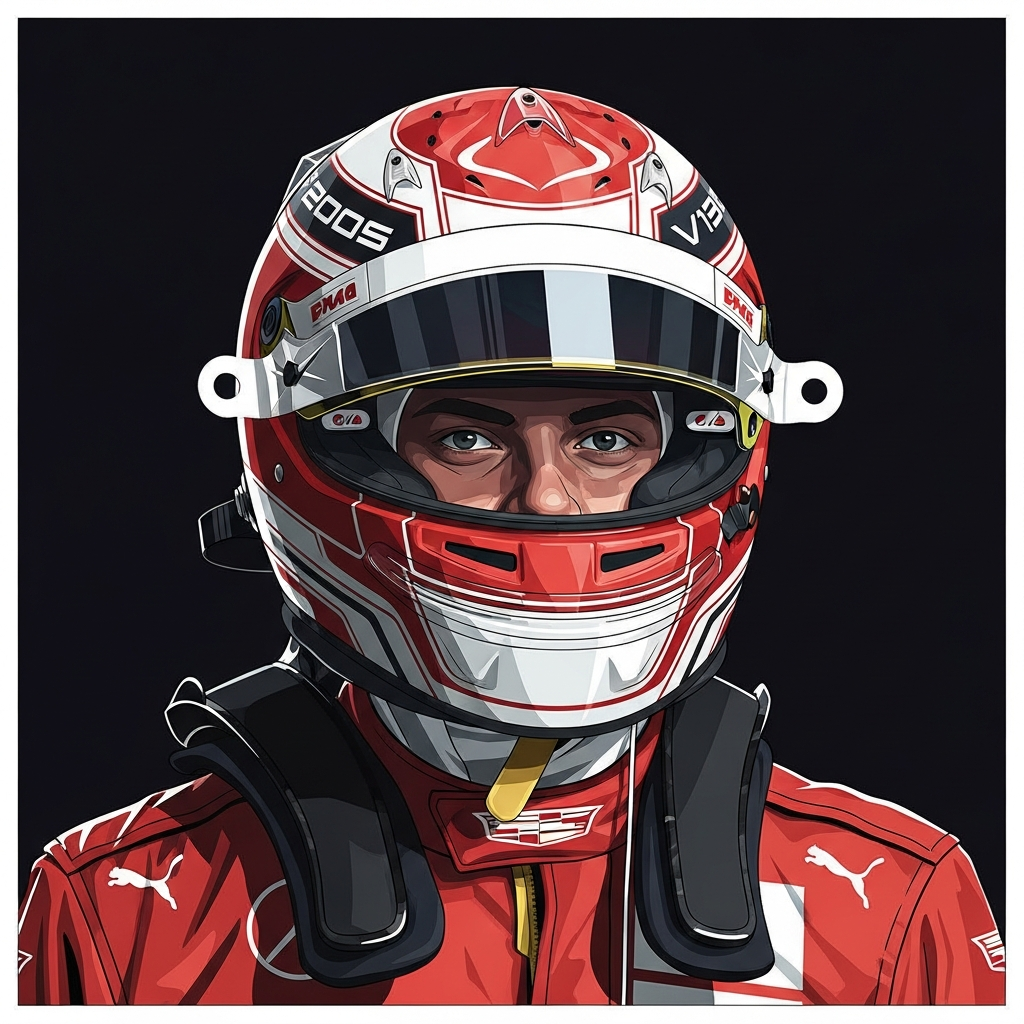
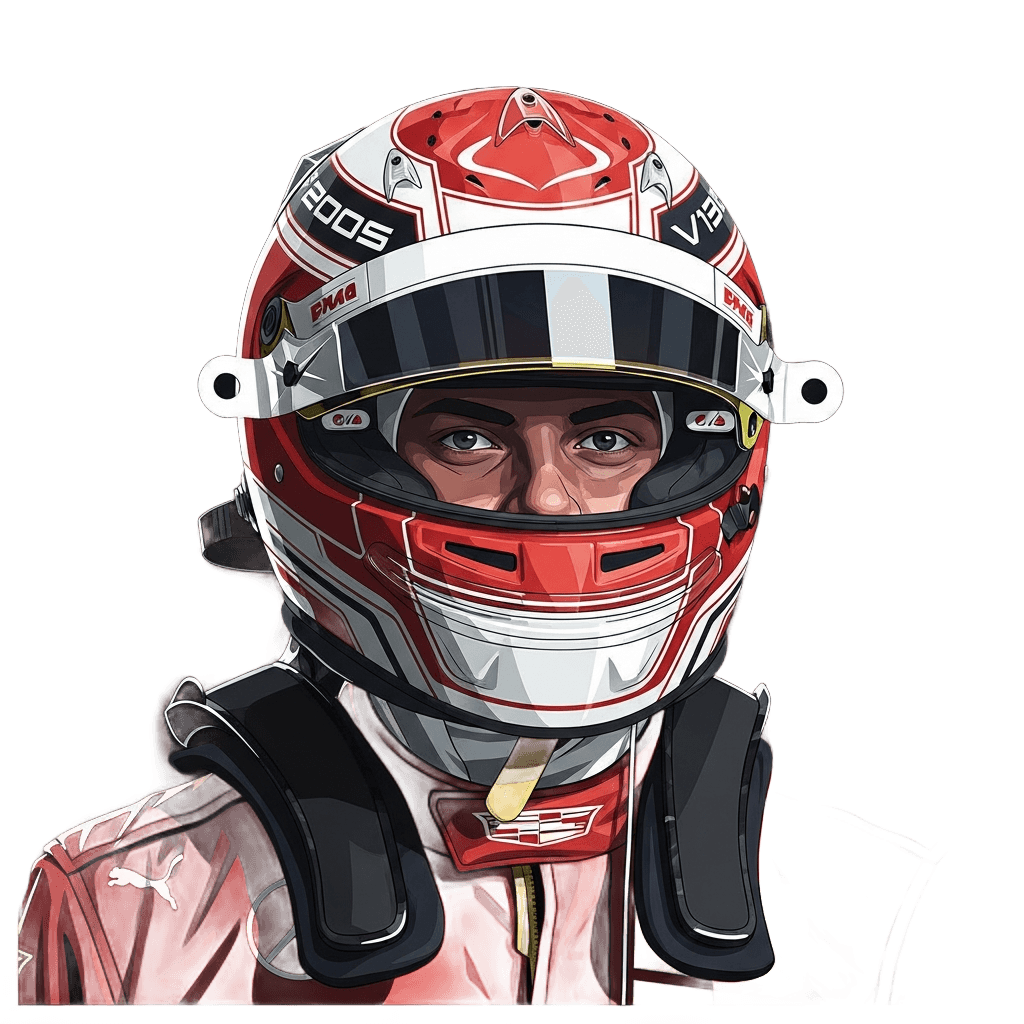
Remove backgrounds from driver portraits, clean up card image display

diff --git a/src/App.js b/src/App.js
@@ -743,8 +743,8 @@ function F1Fantasy({ user }) {
                         >
                           <div style={{ display: "flex", alignItems: "center", gap: 10, flex: 1, minWidth: 0 }}>
                             <div style={{ width: 3, height: 44, background: driver.teamColor, borderRadius: 2, flexShrink: 0, boxShadow: selected ? `0 0 6px ${driver.teamColor}88` : "none", transition: "box-shadow 0.2s" }} />
-                            <div style={{ flexShrink: 0, width: 44, height: 44, borderRadius: 6, overflow: "hidden", border: `1px solid ${driver.teamColor}44`, background: "#111" }}>
-                              <img src={`/drivers/driver-${driver.id}.png`} alt={driver.name} style={{ width: "100%", height: "100%", objectFit: "cover" }} />
+                            <div style={{ flexShrink: 0, width: 48, height: 48 }}>
+                              <img src={`/drivers/driver-${driver.id}.png`} alt={driver.name} style={{ width: "100%", height: "100%", objectFit: "contain" }} />
                             </div>
                             <div style={{ minWidth: 0, flex: 1 }}>
                               <div style={{ fontSize: 10, color: "#666", fontWeight: 600, letterSpacing: 0.3, lineHeight: 1.3, whiteSpace: "nowrap", overflow: "hidden", textOverflow: "ellipsis" }}>

diff --git a/scripts/remove-backgrounds.js b/scripts/remove-backgrounds.js
@@ -1,0 +1,36 @@
+const { removeBackground } = require('@imgly/background-removal-node');
+const fs = require('fs');
+const path = require('path');
+
+const DRIVERS_DIR = path.join(__dirname, '../public/drivers');
+
+async function main() {
+  const files = fs.readdirSync(DRIVERS_DIR).filter(f => f.endsWith('.png') && !f.includes('-nobg'));
+  console.log(`Removing backgrounds from ${files.length} images...\n`);
+
+  for (const file of files) {
+    const inputPath = path.join(DRIVERS_DIR, file);
+    const outputPath = path.join(DRIVERS_DIR, file); // overwrite in place
+
+    try {
+      console.log(`🎨 Processing ${file}...`);
+      const imageData = fs.readFileSync(inputPath);
+      const blob = new Blob([imageData], { type: 'image/png' });
+
+      const result = await removeBackground(blob, {
+        model: 'medium',
+        output: { format: 'image/png', quality: 1.0 }
+      });
+
+      const buffer = Buffer.from(await result.arrayBuffer());
+      fs.writeFileSync(outputPath, buffer);
+      console.log(`✅ Done ${file}`);
+    } catch (err) {
+      console.error(`❌ Failed ${file}:`, err.message);
+    }
+  }
+
+  console.log('\n✅ All backgrounds removed!');
+}
+
+main();
